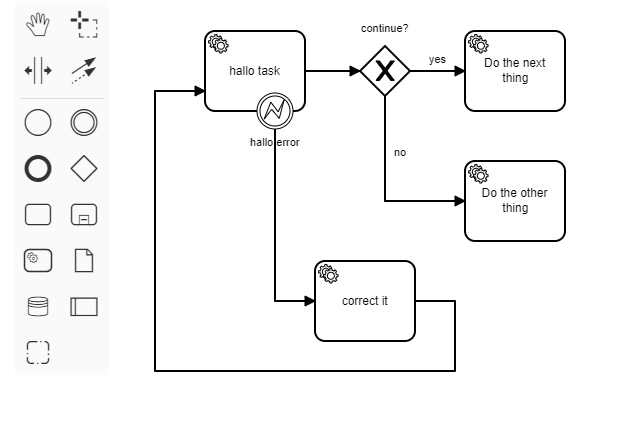
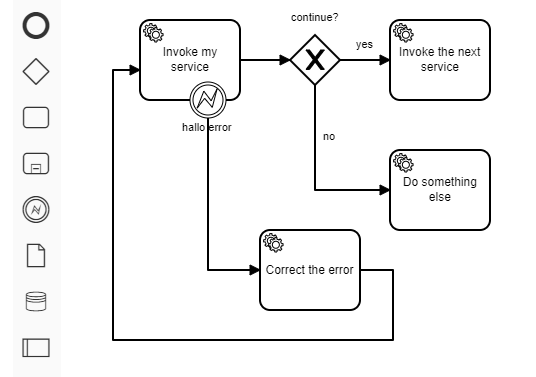
finalize running example

diff --git a/client/bpmn-js-extension/ConnectedElementsPalette.js b/client/bpmn-js-extension/ConnectedElementsPalette.js
@@ -1,17 +1,20 @@
 export default class ConnectedElementsPalette {
-  constructor(create, elementFactory, palette, translate) {
+  constructor(bpmnFactory, bpmnJs, create, elementFactory, palette, translate) {
+    this.bpmnFactory = bpmnFactory;
+    this.bpmnJs = bpmnJs;
     this.create = create;
     this.elementFactory = elementFactory;
     this.translate = translate;
-
     palette.registerProvider(this);
   }
   
   getPaletteEntries(element) {
     const {
+      bpmnFactory,
+      bpmnJs,
       create,
       elementFactory,
-      translate
+      translate,
     } = this;
 
     function serviceTaskConfiguration(businessObject, name, delegateExpression) {
@@ -30,89 +33,89 @@ export default class ConnectedElementsPalette {
     }
 
     function createTaskCollection(event) {
-      var moddle = elementFactory._moddle;
-      
       // extension element for the retry time cycle
-      var failedJobRetryTmeCycle = moddle.create('camunda:FailedJobRetryTimeCycle', {
+      var failedJobRetryTmeCycle = bpmnFactory.create('camunda:FailedJobRetryTimeCycle', {
         body: 'R3/PT10S'
       });
         
-      var r3pt10sExtensionElement = moddle.create('bpmn:ExtensionElements', {
+      var r3pt10sExtensionElement = bpmnFactory.create('bpmn:ExtensionElements', {
         values: [ failedJobRetryTmeCycle ]
       });
 
-      const helloServicetaskShape = elementFactory.createShape({ type: 'bpmn:ServiceTask', x:0, y:0 });
-      serviceTaskConfiguration(helloServicetaskShape.businessObject, 'hallo task pal', '${logger}');
-      helloServicetaskShape.businessObject.extensionElements = r3pt10sExtensionElement;
-      console.log('the task', helloServicetaskShape);
+      const invokeMyServicetaskShape = elementFactory.createShape({ type: 'bpmn:ServiceTask', x:0, y:0 });
+      serviceTaskConfiguration(invokeMyServicetaskShape.businessObject, 'Invoke my service', '${logger}');
+      invokeMyServicetaskShape.businessObject.extensionElements = r3pt10sExtensionElement;
+      //console.log('the task', helloServicetaskShape);
 
       const exclusiveGatewayShape = elementFactory.createShape({type:'bpmn:ExclusiveGateway', x:150, y:15 });
       exclusiveGatewayShape.businessObject.name = 'continue?';
 
       const nextThingServiceTaskShape = elementFactory.createShape({ type: 'bpmn:ServiceTask', x:250, y:0 });
-      serviceTaskConfiguration(nextThingServiceTaskShape.businessObject, 'Do the next thing pal', '${logger}');
+      serviceTaskConfiguration(nextThingServiceTaskShape.businessObject, 'Invoke the next service', '${logger}');
       nextThingServiceTaskShape.businessObject.extensionElements = r3pt10sExtensionElement;
 
       const otherThingServiceTaskShape = elementFactory.createShape({ type: 'bpmn:ServiceTask', x:250, y:130 });
-      serviceTaskConfiguration(otherThingServiceTaskShape.businessObject, 'Do the other thing pal', '${logger}');
+      serviceTaskConfiguration(otherThingServiceTaskShape.businessObject, 'Do something else', '${logger}');
       otherThingServiceTaskShape.businessObject.extensionElements = r3pt10sExtensionElement;
 
       const correctItServiceTaskShape = elementFactory.createShape({ type: 'bpmn:ServiceTask', x:120, y:210 });
-      serviceTaskConfiguration(correctItServiceTaskShape.businessObject, 'Correct it pal', '${logger}');
+      serviceTaskConfiguration(correctItServiceTaskShape.businessObject, 'Correct the error', '${logger}');
       correctItServiceTaskShape.businessObject.extensionElements = r3pt10sExtensionElement;
       
-      // The error is not created in the XML
-      var error = moddle.create('bpmn:Error', {errorCode: 'abc', name: 'myErrorName'});
-      console.log('error:', error); 
+      var definitions = bpmnJs.getDefinitions();
+      var error = bpmnFactory.create('bpmn:Error', {errorCode: 'abc', name: 'myErrorName'});
+      definitions.get('rootElements').push(error);
       
       // error event definition
-      var erroreventDefinition = moddle.create('bpmn:ErrorEventDefinition', {
+      var erroreventDefinition = bpmnFactory.create('bpmn:ErrorEventDefinition', {
         errorCodeVariable: 'errorCode',
         errorMessageVariable: 'errorMessage',
         errorRef: error
-      });  
-      console.log('errorEventDefinition:', erroreventDefinition);
-              
+      });    
+      //console.log('errorEventDefinition:', erroreventDefinition);
+      
       // attached boundary error event
       const erroreventShape = elementFactory.createShape({ type: 'bpmn:BoundaryEvent', x:50, y:62 });
       erroreventShape.businessObject.name = 'hallo error';
-      erroreventShape.businessObject.attachedToRef = helloServicetaskShape.businessObject;
+      erroreventShape.businessObject.attachedToRef = invokeMyServicetaskShape.businessObject;
       erroreventShape.businessObject.eventDefinitions = [erroreventDefinition];
-      erroreventShape.host = helloServicetaskShape;
-      console.log('the event', erroreventShape);
+      erroreventShape.host = invokeMyServicetaskShape;
+      //console.log('the event', erroreventShape);
 
-      const sequenceFlowHelloExclusive = 
-        createConnection(helloServicetaskShape, exclusiveGatewayShape, [{x:100, y:40}, {x:150, y:40}]);
-      console.log('sequence flow:', sequenceFlowHelloExclusive);
+      erroreventDefinition.$parent = erroreventShape.businessObject;
+
+      const sequenceFlowMyServiceExclusive = 
+        createConnection(invokeMyServicetaskShape, exclusiveGatewayShape, [{x:100, y:40}, {x:150, y:40}]);
       
       // need a FormularExpression
       const sequenceFlowExclusiveNext = 
         createConnection(exclusiveGatewayShape, nextThingServiceTaskShape, [{x:200, y:40}, {x:250, y:40}]);
       sequenceFlowExclusiveNext.businessObject.name = 'yes';
       sequenceFlowExclusiveNext.businessObject.conditionExpression = 
-        moddle.create('bpmn:FormalExpression', {body: '${continue}'});
-      console.log('conditional sequence flow: ', sequenceFlowExclusiveNext);
+        bpmnFactory.create('bpmn:FormalExpression', {body: '${continue}'});
+      //console.log('conditional sequence flow: ', sequenceFlowExclusiveNext);
 
       const sequenceFlowExclusiveOther = 
         createConnection(exclusiveGatewayShape, otherThingServiceTaskShape, [{x:175, y:60}, {x:175, y:170}, {x:250, y:170}]);
       sequenceFlowExclusiveOther.businessObject.name = 'no';
       sequenceFlowExclusiveOther.businessObject.conditionExpression = 
-        moddle.create('bpmn:FormalExpression', {body: '${not continue}'});
+        bpmnFactory.create('bpmn:FormalExpression', {body: '${not continue}'});
 
       const sequenceFlowErrorCorrect = 
         createConnection(erroreventShape, correctItServiceTaskShape, [{x:68, y:98}, {x:68, y:250}, {x:120, y:250}]);
 
       const sequenceFlowCorrectHello = 
-        createConnection(correctItServiceTaskShape, helloServicetaskShape, 
+        createConnection(correctItServiceTaskShape, invokeMyServicetaskShape, 
           [{x:220, y:250}, {x:250, y:250}, {x:250, y: 320}, {x:-30, y:320}, {x:-30, y:50}, {x:0, y:50}]);
 
-      create.start(event, [helloServicetaskShape, 
+      create.start(event, [
+        invokeMyServicetaskShape, 
         erroreventShape, 
         exclusiveGatewayShape, 
         nextThingServiceTaskShape, 
         otherThingServiceTaskShape,
         correctItServiceTaskShape,
-        sequenceFlowHelloExclusive,
+        sequenceFlowMyServiceExclusive,
         sequenceFlowExclusiveNext,
         sequenceFlowExclusiveOther,
         sequenceFlowErrorCorrect,
@@ -123,7 +126,7 @@ export default class ConnectedElementsPalette {
     return {
       'create.task-collection': {
         group: 'activity',
-        className: 'bpmn-icon-service-task',
+        className: 'bpmn-icon-intermediate-event-catch-error',
         title: translate('Create Task Collection'),
         action: {
           dragstart: createTaskCollection,
@@ -135,6 +138,8 @@ export default class ConnectedElementsPalette {
 }
   
 ConnectedElementsPalette.$inject = [
+  'bpmnFactory',
+  'bpmnjs',
   'create',
   'elementFactory',
   'palette',

diff --git a/client/bpmn-js-extension/index.js b/client/bpmn-js-extension/index.js
@@ -1,4 +1,3 @@
-import ExampleExtensionService from './ExampleExtensionService';
 import ConnectedElementsPalette from './ConnectedElementsPalette';
 
 /**
@@ -15,7 +14,6 @@ import ConnectedElementsPalette from './ConnectedElementsPalette';
  *
  */
 export default {
-  __init__: [ 'pluginService_0vcvfg5', 'connectedElementsPalette' ],
-  pluginService_0vcvfg5: [ 'type', ExampleExtensionService ],
+  __init__: [ 'connectedElementsPalette' ],
   connectedElementsPalette: [ 'type', ConnectedElementsPalette ]
 };

diff --git a/README.md b/README.md
@@ -6,7 +6,7 @@ A plugin build for the Camunda Modeler.
 
 ## Use case
 
-With this plugin you can a bunch of connected and preconfigured BPMN elements (Tasks, Gateway, Attached Bounday Event and Sequence Flows) and drop it into the canvas.
+With this plugin you can a drag bunch of connected and preconfigured BPMN elements (Tasks, Gateway, Attached Bounday Event and Sequence Flows) and drop it into the canvas.
 
 It maybe useful if you identify a pattern, here for predefined error resolution, and want to use it in all your models without dragging each element again and connecting them by hand.
 
@@ -14,19 +14,21 @@ It maybe useful if you identify a pattern, here for predefined error resolution,
 
 ## Learning and Examples
 
-https://www.youtube.com/watch?v=sav98y4EFzE
+As I've only a low experience programming javascript with node.js, these resources helped me most to get on the right track:
 
-https://github.com/camunda/camunda-modeler-plugins/tree/master/bpmn-js-plugin-example
-
-https://github.com/nikku/camunda-modeler-plugins-talk-2019
+* https://www.youtube.com/watch?v=sav98y4EFzE
+* https://github.com/camunda/camunda-modeler-plugins/tree/master/bpmn-js-plugin-example
+* https://github.com/nikku/camunda-modeler-plugins-talk-2019
 
 ## How is it build?
 
-The project started from the Camunda Modeler Plugin Example https://github.com/camunda/camunda-modeler-plugin-example and uses the bpmn-js-example-custom-controls https://github.com/bpmn-io/bpmn-js-example-custom-controls to see how you can add a new element to the palette.
+The project started from the [Camunda Modeler Plugin Example](https://github.com/camunda/camunda-modeler-plugin-example) and uses the [bpmn-js-example-custom-controls](https://github.com/bpmn-io/bpmn-js-example-custom-controls) to see how you can add a new element to the palette.
 
-To add configurations to the element you have to know, that the `businessObject` https://github.com/bpmn-io/bpmn-js-examples/tree/master/bpmn-properties#writing-bpmn-properties of a shape represents the content that you usually configure with the property panel.
+To add configurations to the element you have to know, that the `businessObject` of a shape represents the content that you usually configure with the property panel. (https://github.com/bpmn-io/bpmn-js-examples/tree/master/bpmn-properties#writing-bpmn-properties)
 
-With this snippet you can drag a predefined service task into the canvas:
+### Service tasks
+
+With this snippet you can drag a predefined Service Task into the canvas:
 
 ```javascript
 function serviceTaskConfiguration(businessObject, name, delegateExpression) {
@@ -36,24 +38,28 @@ function serviceTaskConfiguration(businessObject, name, delegateExpression) {
   return businessObject;
 }
 
-const helloServicetaskShape = elementFactory.createShape({ type: 'bpmn:ServiceTask', x:0, y:0 });
-serviceTaskConfiguration(helloServicetaskShape.businessObject, 'hallo task pal', '${logger}');
+const invokeMyServicetaskShape = elementFactory.createShape({ type: 'bpmn:ServiceTask', x:0, y:0 });
+serviceTaskConfiguration(invokeMyServicetaskShape.businessObject, 'Invoke my service', '${logger}');
 ```
 
-If you want to add the Retry Time Cycle, you have to create the extension element before and place the FaildJobRetryTimeCycle element inside:
+If you want to add the Retry Time Cycle, you have to create the extension element before and place the `FaildJobRetryTimeCycle` element inside:
 
 ```javascript
-var failedJobRetryTmeCycle = moddle.create('camunda:FailedJobRetryTimeCycle', {
+var failedJobRetryTmeCycle = bpmnFactory.create('camunda:FailedJobRetryTimeCycle', {
   body: 'R3/PT10S'
 });
 
-var r3pt10sExtensionElement = moddle.create('bpmn:ExtensionElements', {
+var r3pt10sExtensionElement = bpmnFactory.create('bpmn:ExtensionElements', {
   values: [ failedJobRetryTmeCycle ]
 });
-helloServicetaskShape.businessObject.extensionElements = r3pt10sExtensionElement;
+invokeMyServicetaskShape.businessObject.extensionElements = r3pt10sExtensionElement;
 ```
 
-To connect more elements like this with Sequence Flows, you have to create them with their waypoints as in this example:
+Some example use `moddle` to create model elements, but if you use `bpmnFactory` instead, they will get unique IDs.
+
+### Sequence Flows
+
+To connect two elements like this with Sequence Flows, you have to create them with their waypoints as in this example:
 
 ```javascript
 function createConnection(sourceShape, targetShape, waypoints) {
@@ -73,13 +79,52 @@ If the Sequence Flow needs a Condition Expression, just add it to the `businessO
 
 ```javascript
 sequenceFlowExclusiveNext.businessObject.conditionExpression = 
-   moddle.create('bpmn:FormalExpression', {body: '${continue}'});
+   bpmnFactory.create('bpmn:FormalExpression', {body: '${continue}'});
 ```
+
+### Attached boundary error event
+
+To attach an Error Boundary Event, you have to create the error first:
+
+```javascript
+var error = bpmnFactory.create('bpmn:Error', {errorCode: 'abc', name: 'myErrorName'});
+```
+
+This error has to be attached to root element of the XML:
+```javascript
+var definitions = bpmnJs.getDefinitions();
+definitions.get('rootElements').push(error);
+```
+
+Then you can create the Error Event Definition and attach it to the shape (the drawn picture on the canvas):
+
+```javascript
+var erroreventDefinition = bpmnFactory.create('bpmn:ErrorEventDefinition', {
+  errorCodeVariable: 'errorCode',
+  errorMessageVariable: 'errorMessage',
+  errorRef: error
+});
+
+const erroreventShape = elementFactory.createShape({ type: 'bpmn:BoundaryEvent', x:50, y:62 });
+erroreventShape.businessObject.name = 'hallo error';
+erroreventShape.businessObject.eventDefinitions = [erroreventDefinition];
+```
+
+The last step is to attach the shape to an existing task:
+```javascript
+erroreventShape.businessObject.attachedToRef = invokeMyServicetaskShape.businessObject;
+erroreventShape.host = invokeMyServicetaskShape;
+
+erroreventDefinition.$parent = erroreventShape.businessObject;
+```
+
+### Creating all the elements
 
 To create this set of elements, you have to add all your shapes and Sequence Flows:
 
 ```javascript
-create.start(event, [helloServicetaskShape, 
+create.start(event, [
+  invokeMyServicetaskShape, 
   exclusiveGatewayShape, 
   nextThingServiceTaskShape, 
   sequenceFlowExclusiveNext
